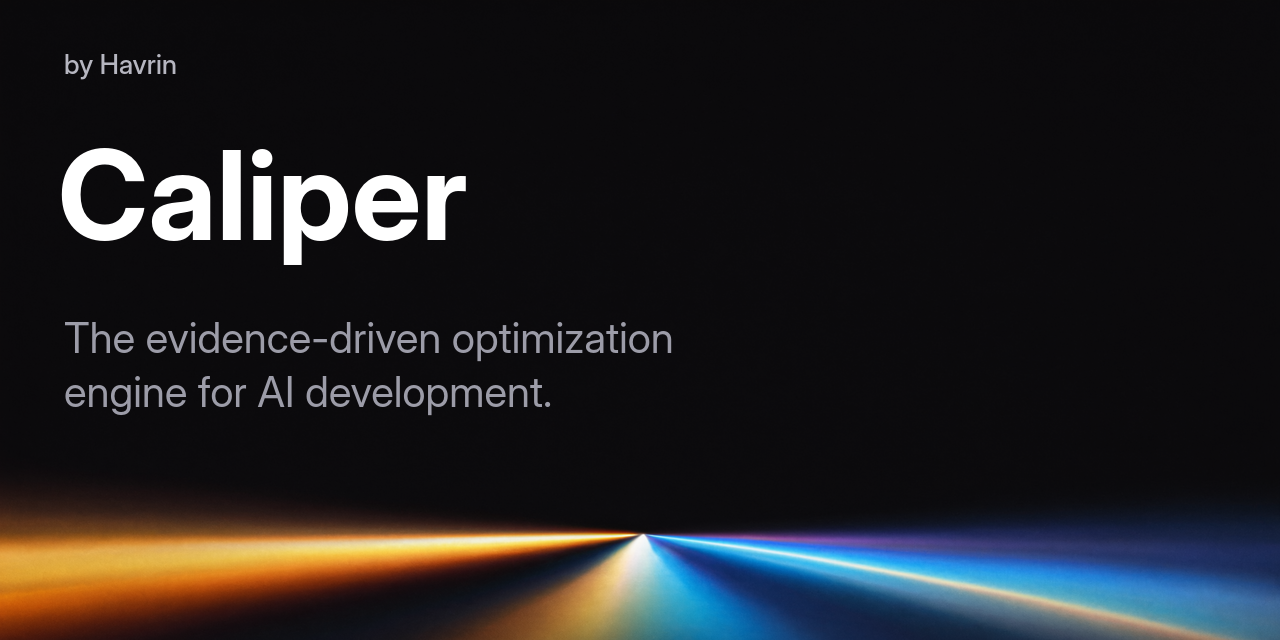
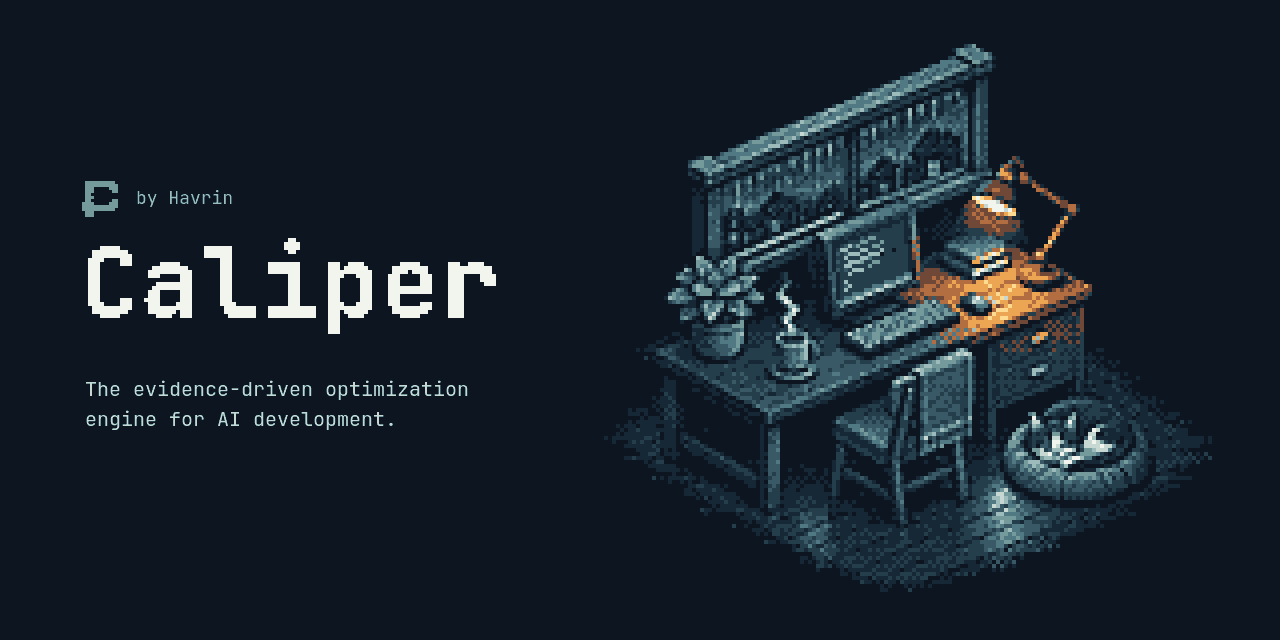
brand: cozy isometric pixel-art identity (v0.4.7)
Replace the prismatic look with cozy isometric pixel art: true 4x4 Bayer
dithering, 13-color navy/teal palette + single amber accent (desk lamp).
- assets/brand/: hero-dark/light.png (1280x640), hero-dark.gif (8-frame rain +
  cursor loop), mark.png/mark-reverse.png (caliper-jaw C, legible at 32px),
  DESIGN-SPEC.md (palette, dither, JetBrains Mono type, rationale).
- README hero = animated cozy banner; social preview = night banner.
- Terminal demo GIF re-themed to the brand palette for cohesion.
Functionality unchanged; 223 tests pass.

diff --git a/src/version.ts b/src/version.ts
@@ -1,1 +1,1 @@
-export const CALIPER_VERSION = '0.4.6';
+export const CALIPER_VERSION = '0.4.7';

diff --git a/assets/brand/DESIGN-SPEC.md b/assets/brand/DESIGN-SPEC.md
@@ -1,0 +1,52 @@
+# Caliper by Havrin
+
+A warm lamp picks out one patch of the desk, much as Caliper draws attention to one finding in a long session. The rain, cooling mug, and sleeping cat make the CLI feel at home on someone’s own machine. The open jaws of the small C mark carry the idea of measurement into places where the whole room would be too small to read.
+
+## Color
+
+The night and day banners use the same 13-color sRGB palette. Amber belongs to the lamp and the surfaces it illuminates.
+
+| Role | Hex | Use |
+| --- | --- | --- |
+| Night background | `#0C1520` | Empty field and deepest shadows |
+| Ink | `#162736` | Day wordmark, primary mark, night furniture shadows |
+| Base | `#253E4B` | Monitor glass, dark wood, day tagline |
+| Slate | `#385965` | Day byline, window frame and furniture |
+| Mid teal | `#517984` | Rain, floorboards and shaded leaves |
+| Weathered teal | `#759A9C` | Day furniture, night byline mark |
+| Sea glass | `#9DBBBA` | Night byline and terminal glyphs |
+| Mist | `#C7D8D3` | Night tagline, reverse mark, window highlights |
+| Paper | `#F2F5EE` | Day background and night wordmark |
+| Amber shadow | `#6F4838` | Lamp hardware and dim reflected light |
+| Burnished amber | `#B26D40` | Lamp shade and arm |
+| Amber accent | `#ECA553` | Pool of light |
+| Lamp highlight | `#FFDB91` | Underside of shade and brightest reflections |
+
+## Pixel construction
+
+Both PNGs are 1280 × 640. The workstation uses a 224 × 158 art grid, enlarged fourfold with nearest-neighbor sampling and placed at (460, −4) within the banner. The copy starts about 84 px from the left edge. The two lighting studies share the same framing. The terminal, keyboard highlights and sleeping cat’s face received a final pixel pass at banner scale.
+
+Use this 4 × 4 Bayer threshold map for shading. The rows run from top to bottom, starting at the upper-left of the art grid.
+
+```
+ 0   8   2  10
+12   4  14   6
+ 3  11   1   9
+15   7  13   5
+```
+
+For each art pixel, find the two adjacent shades of its cool or amber ramp. Let `f` be the fractional luminance between them. Use the lighter shade when `(f − 0.12) / 0.76 > (Bayer[y % 4][x % 4] + 0.5) / 16`. This gives flat areas near either endpoint and a checkerboard at the midpoint. The light pool also uses the ordered threshold to break its edge into the cool tabletop. Keep the matrix phase fixed throughout animation.
+
+## Typography and mark
+
+Use **JetBrains Mono Bold** for “Caliper”. The banner rasterizes it at 25 px, thresholds the glyph mask at 48%, and enlarges it fourfold. Set “by Havrin” in Regular at 18 px and the tagline in Regular at 20 px with a 30 px line step. Keep the line break after “optimization” so “AI development” stays together. JetBrains Mono is available under the SIL Open Font License 1.1. [Typeface and license](https://github.com/JetBrains/JetBrainsMono/blob/master/OFL.txt)
+
+The mark is drawn on a 16 × 16 grid. Its upper jaw is fixed, its lower jaw slides along the left stem, and the space between them opens the C. Both 64 × 64 PNGs have transparent backgrounds. Use **mark.png** on light surfaces and **mark-reverse.png** on dark ones. At 32 px, each source cell occupies exactly 2 × 2 pixels.
+
+## Motion
+
+**hero-dark.gif** loops eight 220 ms frames, for a period of 1.76 seconds. Five short rain streaks move down the panes in staggered phases. The terminal cursor is visible for four frames and rests for four. The still banner is the reduced-motion counterpart.
+
+## Illustration direction
+
+The built-in image generator supplied the lighting studies. The final night prompt called for a higher isometric view of the desk, a wide rainy window, a single amber task light, a steaming teal mug, a succulent and a curled white-and-slate cat, using the reference bus stops for pixel clustering and checkerboard shadows. The daylight edit kept the scene in place and requested a near-white field, cloudy cyan sky, slate rooftops and a small amber reflection on the desk.

diff --git a/CHANGELOG.md b/CHANGELOG.md
@@ -5,6 +5,14 @@ All notable changes to Caliper are documented here. The format follows
 [Semantic Versioning](https://semver.org/spec/v2.0.0.html). Caliper is pre-1.0:
 minor versions may include breaking changes to the JSON report schema or CLI.
 
+## 0.4.7 — Cozy pixel-art brand identity (2026-11-19)
+
+### Changed
+- **New visual identity**: cozy isometric pixel art with true 4×4 Bayer dithering and a 13-color navy/teal palette with a single amber accent (the desk lamp). Replaces the prismatic look.
+- New `assets/brand/`: `hero-dark.png` / `hero-light.png` (1280×640 banners), `hero-dark.gif` (8-frame rain + cursor loop), `mark.png` / `mark-reverse.png` (caliper-jaw "C", legible at 32px), and `DESIGN-SPEC.md` (palette, dither method, JetBrains Mono type, rationale).
+- README hero now the animated cozy banner; GitHub social preview replaced with the night banner.
+- Terminal demo GIF re-themed to the brand palette (navy field, mist text, teal/amber semantics) for cohesion.
+
 ## 0.4.6 — QoL polish + cleanup (2026-11-18)
 
 ### Added

diff --git a/README.md b/README.md
@@ -6,8 +6,10 @@
 [![Node >= 22.13](https://img.shields.io/badge/node-%3E%3D22.13-339933.svg)](https://nodejs.org)
 
 <p align="center">
-  <img src="assets/social-preview.png" alt="Caliper by Havrin — the evidence-driven optimization engine for AI development" width="100%" />
+  <img src="assets/brand/hero-dark.gif" alt="Caliper by Havrin — a cozy isometric pixel-art developer workstation at dusk: a glowing terminal, warm desk lamp, steaming mug, and a sleeping cat. The evidence-driven optimization engine for AI development." width="100%" />
 </p>
+
+<p align="center"><sub>Cozy isometric pixel art · <a href="assets/brand/hero-light.png">day variant</a> · <a href="assets/brand/DESIGN-SPEC.md">design spec</a> · <a href="assets/brand/mark.png">mark</a></sub></p>
 
 **The open-source optimization engine for AI-powered development.**
 
